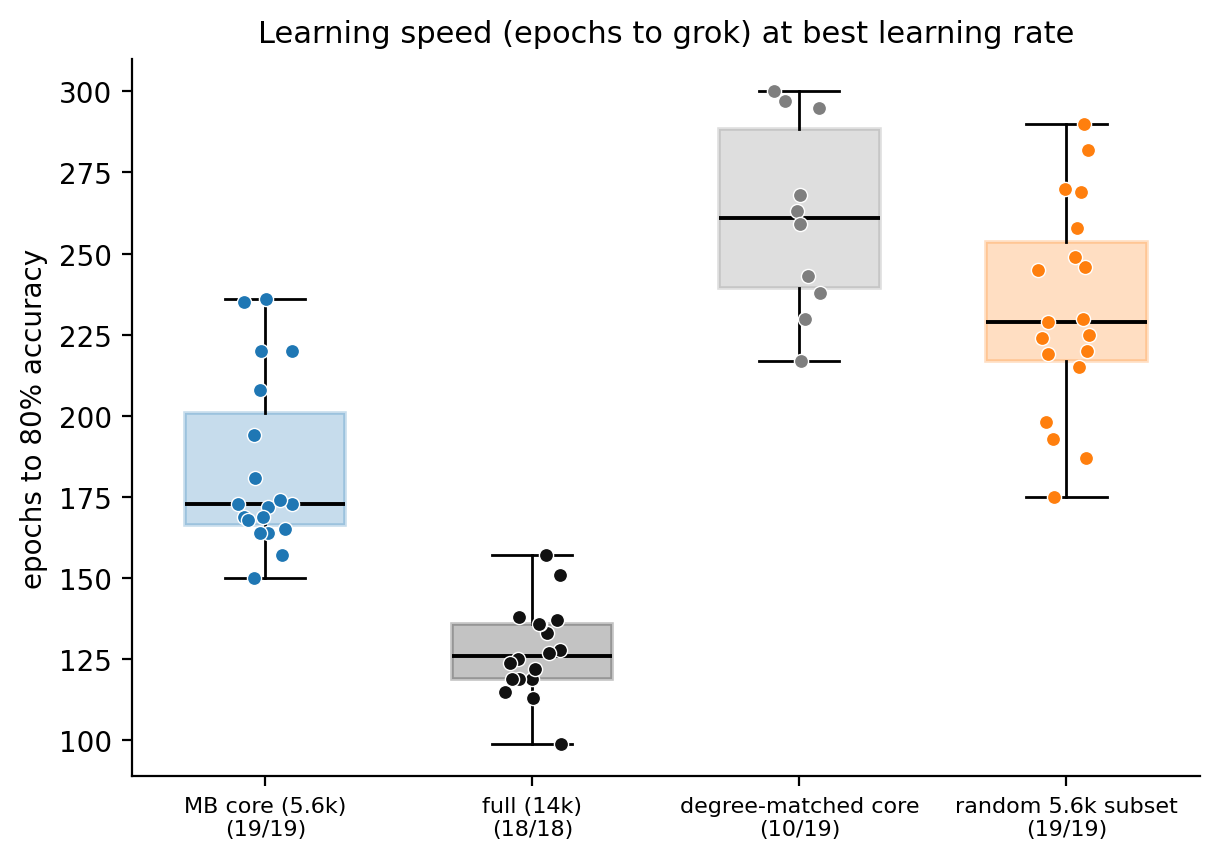
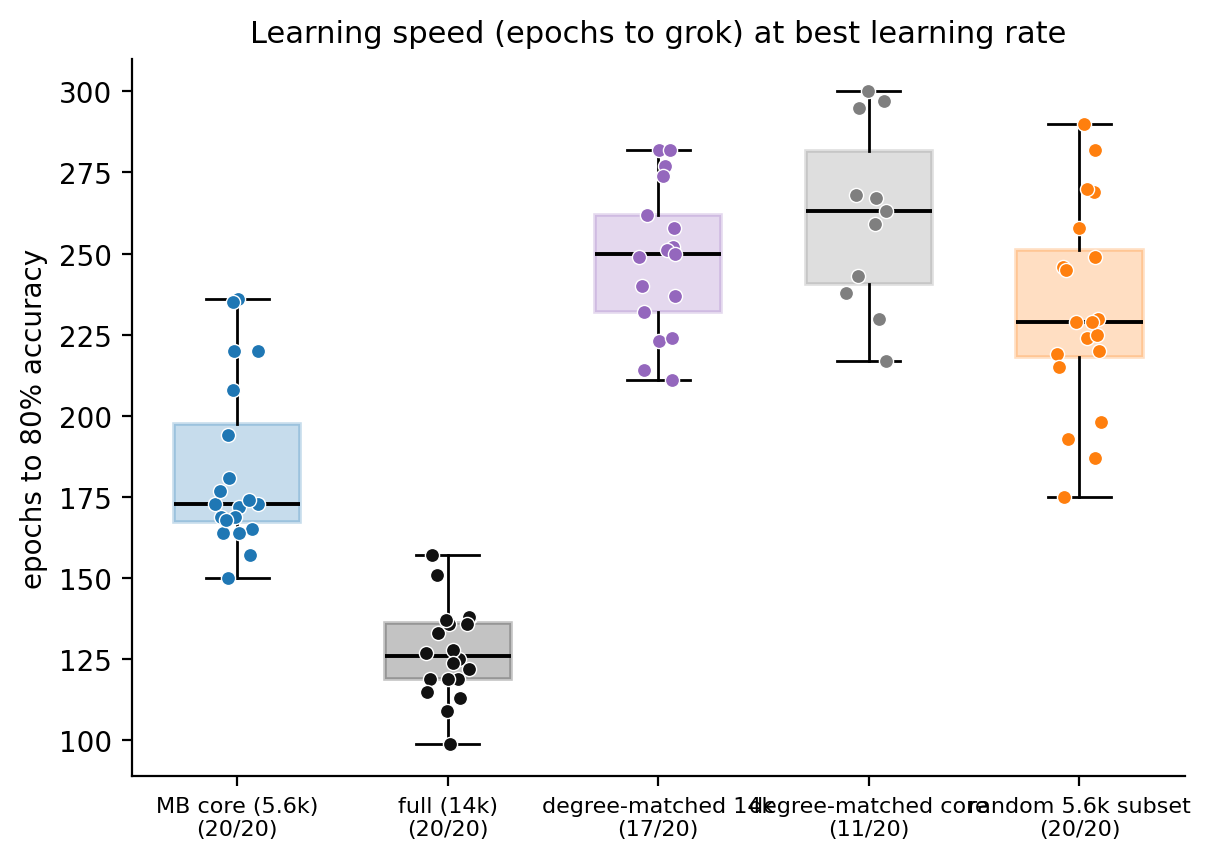
exp02 complete
pruned MB outperforms full control - slightly worse than complete 14.6k mushroom body

diff --git a/scott/experiment_02_mb_core_pruning/port_14k_controls.py b/scott/experiment_02_mb_core_pruning/port_14k_controls.py
@@ -1,0 +1,74 @@
+#!/usr/bin/env python3
+"""Port Experiment 1's 14k degree-matched controls into Experiment 2 as the `full_degree` condition.
+
+Experiment 2 trains core / full / core_degree / random_subset, but NOT a 14k degree-matched
+control -- that arm already exists from Experiment 1 subrun 03 (`control_g*`), trained with the
+identical task, training loop, lr grid, and spectral-radius target (rho=0.95). Rather than re-run
+it, this copies those finished runs into Exp 2's outputs as a `full_degree` condition so the Exp 2
+analysis can ask: is the 5.6k pruned MB core (`core`) better than the 14k degree-matched null?
+
+It copies only result.json (all the analysis + figures need), renaming
+  <E1>/runs/control_gNN_lr<L>/result.json  ->  <E2>/runs/full_degree_gNN_lr<L>/result.json
+and patching condition/arm -> "full_degree" and run_id accordingly. Idempotent (overwrites).
+
+The ported files live only in Exp 2's (git-ignored) outputs/; this script is the tracked,
+reproducible record of how they got there. `aws s3 sync` during --collect does not delete them
+(no --delete), so they persist across collects.
+
+Comparability note: same MQAR task, same train_one_run, same lr grid {1e-4..1e-2}, same rho=0.95.
+Accuracy and epochs/steps-to-grok are hardware-independent and fully comparable. Wall-clock is
+comparable in kind (Exp 1 subrun 03 ran on the same g6.xlarge/L4 fleet, one run per GPU) but came
+from a separate fleet run -- treat the core-vs-full_degree wall-clock delta as indicative.
+"""
+from __future__ import annotations
+
+import argparse
+import json
+import re
+from pathlib import Path
+
+HERE = Path(__file__).resolve().parent
+REPO_ROOT = HERE.parents[1]
+E1_DEFAULT = REPO_ROOT / "scott/experiment_01_mb_mqar_degree_matched/subruns/03_full_fleet/outputs"
+
+
+def main(argv=None) -> int:
+    ap = argparse.ArgumentParser(description=__doc__, formatter_class=argparse.RawDescriptionHelpFormatter)
+    ap.add_argument("--exp1-outputs", type=Path, default=E1_DEFAULT,
+                    help="Exp 1 subrun 03 outputs dir (source of control_g* runs).")
+    ap.add_argument("--exp2-outputs", type=Path, default=HERE / "outputs",
+                    help="Exp 2 outputs dir (destination; full_degree_g* runs are written here).")
+    args = ap.parse_args(argv)
+
+    src_runs = args.exp1_outputs / "runs"
+    dst_runs = args.exp2_outputs / "runs"
+    srcs = sorted(src_runs.glob("control_g*/result.json"))
+    if not srcs:
+        raise SystemExit(f"no control_g*/result.json under {src_runs} (build Exp 1 subrun 03 first)")
+
+    n = 0
+    for sp in srcs:
+        r = json.loads(sp.read_text())
+        old_id = r["run_id"]                       # e.g. control_g05_lr1.0e-03
+        new_id = re.sub(r"^control_g", "full_degree_g", old_id)
+        if new_id == old_id:
+            raise SystemExit(f"unexpected run_id (not control_g*): {old_id}")
+        r["run_id"] = new_id
+        r["arm"] = "full_degree"
+        r["condition"] = "full_degree"             # Exp 2 groups by `condition`; Exp 1 lacked it
+        dst = dst_runs / new_id
+        dst.mkdir(parents=True, exist_ok=True)
+        (dst / "result.json").write_text(json.dumps(r, indent=2))
+        n += 1
+
+    graphs = len({re.sub(r"_lr.*", "", p.name) for p in dst_runs.glob("full_degree_g*")})
+    print(f"ported {n} runs from {src_runs}\n"
+          f"  -> {dst_runs}/full_degree_g*  ({graphs} graphs x lr grid)")
+    print("  next: re-run analysis to include the new comparison, e.g.\n"
+          f"    uv run python {Path(__file__).with_name('run_experiment.py').relative_to(REPO_ROOT)} "
+          f"--analyze-only --output-dir {args.exp2_outputs.relative_to(REPO_ROOT)}")
+    return 0
+
+
+if __name__ == "__main__":
+    raise SystemExit(main())

diff --git a/scott/experiment_02_mb_core_pruning/run_experiment.py b/scott/experiment_02_mb_core_pruning/run_experiment.py
@@ -66,9 +66,13 @@ synthetic_matrix = exp1.synthetic_matrix
 GROK_THRESHOLDS = exp1.GROK_THRESHOLDS
 _empirical_null = exp1._empirical_null
 
-CONDITIONS = ("core", "full", "core_degree", "random_subset")
+# core/full/core_degree/random_subset are TRAINED by this engine. full_degree is an
+# ANALYSIS-ONLY condition: the 14k degree-matched control, ported from Experiment 1 subrun 03
+# (identical task/loop/rho-target=0.95), brought in by port_14k_controls.py. It is never in the
+# training plan; it only appears in the analysis when its result.json files are present.
+CONDITIONS = ("core", "full", "core_degree", "random_subset", "full_degree")
 CONNECTOME_LIKE = ("core", "full")        # one real graph, many training seeds
-CONTROL_LIKE = ("core_degree", "random_subset")  # independent graphs forming a null
+CONTROL_LIKE = ("core_degree", "random_subset", "full_degree")  # independent graphs forming a null
 RANDOM_SUBSET_SEED_BASE = 100_000         # keep random-subset node draws disjoint from other rngs
 
 
@@ -218,6 +222,12 @@ def write_outputs(out_dir: Path, results: list[dict], target_rho: float):
         # (3) pruning: accuracy + learning speed + wall-clock vs the full substrate -> descriptive
         "core_vs_full": _describe_pair(by_cond["core"], by_cond["full"], "core", "full"),
     }
+    # ported 14k degree-matched control (Exp 1 subrun 03), only if present:
+    #  - core_vs_full_degree: is the 5.6k pruned MB better than the 14k degree-matched null?
+    #  - full_vs_full_degree: reproduces Exp 1's headline inside Exp 2 (sanity check)
+    if by_cond["full_degree"]:
+        analysis["core_vs_full_degree"] = _null_compare(by_cond["core"], by_cond["full_degree"])
+        analysis["full_vs_full_degree"] = _null_compare(by_cond["full"], by_cond["full_degree"])
     if multi_lr:
         def lrdist(rs):
             return dict(Counter(f"{r['lr']:.1e}" for r in rs if r.get("lr") is not None))
@@ -232,10 +242,14 @@ def write_outputs(out_dir: Path, results: list[dict], target_rho: float):
         if ta.size:
             print(f"  {c:14s} n={ta.size:2d}  test_acc={ta.mean():.3f}±{ta.std():.3f}  "
                   f"wall_s={np.nanmean(wl):7.0f}", flush=True)
-    for cmp in ("core_vs_core_degree", "core_vs_random_subset"):
+    null_cmps = ["core_vs_core_degree", "core_vs_random_subset"]
+    if "core_vs_full_degree" in analysis:
+        null_cmps += ["core_vs_full_degree", "full_vs_full_degree"]
+    for cmp in null_cmps:
         a = analysis[cmp]["test_acc"]
         if a:
-            print(f"  [{cmp}] test_acc core={a['connectome_mean']}±{a['connectome_std']} "
+            test = cmp.split("_vs_")[0]  # "connectome_mean" position = core, or full for full_vs_*
+            print(f"  [{cmp}] test_acc {test}={a['connectome_mean']}±{a['connectome_std']} "
                   f"ctrl={a['control_mean']}±{a['control_std']} perm_p={a['permutation_p_one_sided']} "
                   f"ranksum_p={a.get('ranksum_p','na')}", flush=True)
     cf = analysis["core_vs_full"].get("test_acc")

diff --git a/scott/experiment_02_mb_core_pruning/make_figures.py b/scott/experiment_02_mb_core_pruning/make_figures.py
@@ -38,10 +38,12 @@ plt.rcParams.update({
     "legend.frameon": False, "legend.fontsize": 8.5,
 })
 
-CONDS = ["core", "full", "core_degree", "random_subset"]
-COLOR = {"core": "#1f77b4", "full": "#111111", "core_degree": "#7f7f7f", "random_subset": "#ff7f0e"}
+CONDS = ["core", "full", "full_degree", "core_degree", "random_subset"]
+COLOR = {"core": "#1f77b4", "full": "#111111", "full_degree": "#9467bd",
+         "core_degree": "#7f7f7f", "random_subset": "#ff7f0e"}
 LABEL = {"core": "MB core (5.6k)", "full": "full (14k)",
-         "core_degree": "degree-matched core", "random_subset": "random 5.6k subset"}
+         "full_degree": "degree-matched 14k", "core_degree": "degree-matched core",
+         "random_subset": "random 5.6k subset"}
 CHANCE = 1 / 32
 
 HERE = Path(__file__).resolve().parent
@@ -159,7 +161,9 @@ def fig2_final_acc(rows, lrs, figdir):
     # permutation p annotations: core vs each control
     core = cell(rows, "core", best_lr(rows, "core", lrs))
     notes = []
-    for ctrl in ("core_degree", "random_subset"):
+    for ctrl in ("core_degree", "random_subset", "full_degree"):
+        if ctrl not in CONDS:
+            continue
         p = perm_p(core, cell(rows, ctrl, best_lr(rows, ctrl, lrs)))
         notes.append(f"core vs {ctrl.replace('_',' ')}: perm p={p:.3f} ({stars(p)})")
     ax.set_title("Final accuracy by condition\n" + "   |   ".join(notes), fontsize=9)
@@ -218,8 +222,11 @@ def fig4_wallclock(rows, lrs, figdir):
 
 
 def fig5_acc_by_lr(rows, lrs, figdir):
-    # core vs core_degree (Exp 1 replication) and core vs full, grouped bars per lr
+    # core vs core_degree (Exp 1 replication at core scale), core vs full, and (if ported)
+    # core vs the 14k degree-matched control, grouped bars per lr
     pairs = [("core", "core_degree"), ("core", "full")]
+    if "full_degree" in CONDS:
+        pairs.append(("core", "full_degree"))
     fig, axes = plt.subplots(1, 2, figsize=(2.0 * len(lrs) + 4.0, 4.2), sharey=True)
     x = np.arange(len(lrs))
     w = 0.38
@@ -252,6 +259,9 @@ def main():
     figdir = outdir.parent / "figures"
     rows = load(outdir)
     lrs = sorted(set(r["lr"] for r in rows))
+    # only plot conditions that actually have runs (e.g. full_degree only after porting)
+    global CONDS
+    CONDS = [c for c in CONDS if any(r["condition"] == c for r in rows)]
     print(f"figures for {outdir.relative_to(REPO_ROOT)}  (lrs={[fmt_lr(l) for l in lrs]}, "
           f"{len(rows)} runs)")
     fig1_curves(rows, lrs, figdir)

diff --git a/scott/labnotebook/experiment_02_mb_core_pruning.md b/scott/labnotebook/experiment_02_mb_core_pruning.md
@@ -48,9 +48,10 @@ fully connected (largest weakly-connected component 5,606/5,608). The core-node 
 adjacency are precomputed once by `build_mb_core.py` → `substrate/core_indices.npy` (staged with
 the code so the fleet never needs the 32 MB annotation table).
 
-**Conditions (4), all ρ-rescaled to the full substrate's measured ρ = 0.95.** Spectral radius is
+**Conditions, all ρ-rescaled to the full substrate's measured ρ = 0.95.** Spectral radius is
 matched across every condition exactly as in Exp 1, so recurrent gain is held fixed and is not a
-confound for any of the three comparisons.
+confound for any comparison. Four conditions are trained here; a fifth (`full_degree`) is **ported
+from Exp 1 subrun 03** rather than re-trained (see below).
 
 | condition | construction | replication | raw ρ before rescale |
 |---|---|---|---|
@@ -58,6 +59,18 @@ confound for any of the three comparisons.
 | `full` | full 14,025-node substrate | 1 graph × 20 training seeds | 0.950 |
 | `core_degree` | degree-preserving rewiring of the core (`degree_preserving_random_like`) | 20 graphs | ~0.18 |
 | `random_subset` | random 5,608-node induced subgraph of the 14k | 20 graphs | ~0.44 |
+| `full_degree` | degree-matched rewiring of the **full 14k** — Exp 1 subrun 03's `control` arm, **ported** | 20 graphs | ~0.20 |
+
+**Ported 14k degree-matched control (`full_degree`).** Exp 1 subrun 03 already trained 20
+degree-matched controls of the *full* 14k substrate (300 ep, 5 lr, ρ=0.95) — the same arm that gave
+Exp 1's headline. Rather than re-run it, `port_14k_controls.py` copies those finished `control_g*`
+runs into Exp 2's outputs as `full_degree_g*` (patching `condition`/`run_id`). Because Exp 2 reuses
+Exp 1's exact `train_one_run`, task, lr grid, and ρ-target, the ported runs are equivalent to
+re-generating them. Accuracy and epochs/steps-to-grok are hardware-independent and fully comparable;
+wall-clock is comparable in kind (same g6.xlarge/L4 fleet, one run per GPU) but from a separate run,
+so treat the core-vs-`full_degree` wall-clock delta as indicative. This adds two analyses: **(4)
+`core` vs `full_degree`** — is the 5.6k pruned MB better than the 14k degree-matched control? — and
+`full` vs `full_degree`, which reproduces Exp 1's headline inside Exp 2 as a consistency check.
 
 `core`/`full` are connectome-like (one real graph; the 20 seeds vary training noise, not the graph
 — pseudo-replication, so the permutation test against a graph-null is primary). `core_degree`/
@@ -99,31 +112,85 @@ total cost is ~1.2–1.6× Exp 1.
 training-seed replicates of one graph — pseudo-replication); rank-sum secondary with that caveat;
 ρ matched everywhere; per-graph lr tuned so a single shared lr cannot handicap an arm.
 
-## Status — launched on the AWS fleet 2026-06-20; running
+## Run log
 
-Built and validated locally (2026-06-19): all 4 conditions build and ρ-match to 0.95 (`core` ×1.03,
-`full` ×1.00, `core_degree` ×5.23, `random_subset` ×2.18); idempotent skip, resume, sharding (400
-runs → 134/133/133 over 3 shards), `--analyze-only`, and figures all confirmed.
+Built and validated locally 2026-06-19; launched on the AWS spot-GPU fleet 2026-06-20 (`run.py`; 400
+runs = 80 units × 5 lr, 300-epoch cap; isolated S3 area `s3://…/pathint-exp02-core/`). 4 of the 64
+spot instances were preempted mid-shard, leaving 26 runs incomplete (374/400); the logs showed no
+errors (only the benign sparse-invariant warning), and the gap was the expected preemption pattern
+(4 resumable partials with checkpoints + 22 never-started shard tails). A top-up re-run resumed the 4
+partials from their S3 checkpoints and ran the 22 remaining to reach 400/400. The 14k degree-matched
+control (`full_degree`, 100 runs) was then ported in from Exp 1 subrun 03 (`port_14k_controls.py`)
+and the full set re-analyzed (`run.py --collect`) — 500 runs aggregated.
 
-**Launched on the AWS spot-GPU fleet 2026-06-20** via `run.py` (400 runs = 80 units × 5 lr, 300-epoch
-cap; 64-GPU fleet, spot + on-demand spill; isolated S3 area `s3://…/pathint-exp02-core/`). Each
-worker runs `run_experiment.py --shard k --num-shards 64`, idempotent and per-epoch checkpointed to
-S3, then self-terminates — so spot preemptions only cost a resume. Monitor with `run.py --status`
-(progress vs the 400-run plan, per condition) and `run.py --log`; collect with `run.py --collect`
-(pulls results, runs `--analyze-only`, regenerates figures). Results below are pending run completion.
+## Results (concluded 2026-06-21; 400 trained + 100 ported = 500 runs)
 
-## Results
+**Pruning the 14,025-neuron FlyWire "mushroom body" substrate to the ~5.6k canonical MB core keeps
+essentially all of the connectome's MQAR advantage. The MB core beats every control — a
+degree-matched core, a random same-size subgraph, and the full 14k's degree-matched control — and
+trains ~2.5× faster in wall-clock than the full substrate, for ~0.04 less final accuracy.**
 
-_Pending — run launched 2026-06-20; fill in from `run.py --collect` when the fleet finishes._
+All five conditions ρ-matched to 0.95; best lr chosen per unit on validation (every condition's
+optimum is 1e-3 — shared across arms, as in Exp 1). 20 units per condition.
 
-Expected outputs: `outputs/{analysis.json, metrics_by_run.csv, lr_selection.csv}`, per-run curves
-under `outputs/runs/*/`, and figures `fig1_curves_best_lr` (headline), `fig2_final_acc` (+ the two
-permutation p's), `fig3_grok_epochs`, `fig4_wallclock`, `fig5_acc_by_lr`. To be reported per
-question: (1) `core` vs `core_degree` permutation p — does Exp 1 hold at core scale; (2) `core` vs
-`random_subset` permutation p — right subset vs just smaller; (3) `core` vs `full` — final test
-accuracy, epochs/steps/wall-clock to grok, and total wall-clock.
+| condition | final test acc | total wall-clock |
+|---|---|---|
+| `full` (14k) | 0.919 ± 0.010 | 10,238 s |
+| **`core` (5.6k MB)** | **0.881 ± 0.012** | 4,128 s |
+| `random_subset` (random 5.6k) | 0.838 ± 0.020 | 2,704 s |
+| `full_degree` (14k degree-matched, ported) | 0.769 ± 0.140 | 10,042 s |
+| `core_degree` (5.6k degree-matched) | 0.701 ± 0.171 | 4,113 s |
+
+Permutation tests (one-sided, the real graph as the test arm against each 20-graph control null;
+all land at the 1/(20+1) ≈ 0.048 floor — complete separation, 0/20 controls reach the test mean;
+rank-sum p ≈ 0, secondary, with the pseudo-replication caveat):
+
+- **Q1 — Exp 1 holds at core scale.** `core` 0.881 vs `core_degree` 0.701, p = 0.048. The wiring
+  advantage over degree-matched random survives pruning, so it is intrinsic to the ~5.6k MB core,
+  not carried by the ~8.4k weakly-attached halo (the central-complex + unlabeled neurons the build
+  rule swept in). This is the clean same-size / same-degree test.
+- **Q2 — the right subset, not just smaller.** `core` 0.881 vs `random_subset` 0.838, p = 0.048. A
+  random same-size chunk of the 14k is a surprisingly strong substrate (0.838, despite being far
+  sparser — ~94k vs ~440k edges), but the MB core still beats it.
+- **Q4 — the pruned core beats the 14k degree-matched control.** `core` 0.881 vs `full_degree`
+  0.769, p = 0.048. The 5.6k biological core outperforms a degree-matched random network with 2.5×
+  the neurons.
+- **Reproduction check.** `full` 0.919 vs `full_degree` 0.769, p = 0.048 — matches Exp 1's headline
+  (0.918 vs 0.769) almost exactly, confirming the ported control is apples-to-apples.
+
+**Q3 — what pruning buys (`core` vs `full`; descriptive, both one graph × 20 seeds).** The speed
+story depends on the metric:
+- Final accuracy: 0.881 vs 0.919 — pruning costs ~0.04.
+- Learning speed in *epochs*: core is **slower** — ~183 vs ~127 epochs to 80% (the smaller network
+  needs more passes to grok).
+- Learning speed in *wall-clock*: core is **~2.5× faster** — 4,128 vs 10,238 s — because each epoch
+  on 5.6k neurons / 440k edges is far cheaper than on 14k / 575k, more than offsetting the extra
+  epochs. So pruning is a clear practical win on wall-clock and a near-wash on accuracy.
+
+**Secondary observation.** The two degree-matched controls invert relative to their parent graphs:
+`core_degree` (0.701) is the *worst* condition — below the 14k `full_degree` (0.769) and even the
+random brain chunk `random_subset` (0.838). Degree-preserving rewiring of the compact MB core is
+more destructive than rewiring the full 14k, consistent with the core's structure being more
+load-bearing, though we have not isolated the mechanism.
+
+**Honest limits.**
+- *Cross-size comparisons.* `core` vs `full` and `core` vs `full_degree` change N (5.6k vs 14k)
+  alongside topology, so they answer "is the pruned biological core better than a larger net"
+  rather than isolating one variable. Q1 is the clean same-size/same-degree test, and it is positive.
+- *Pseudo-replication.* `core`/`full` are 20 training-seed replicates of one graph each; the
+  permutation test against the 20-graph null is the valid statistic, sitting at the 0.048 floor —
+  growing the control nulls would tighten it.
+- *Generic all-neuron I/O.* Input/readout still touch all neurons, so a trainable readout can route
+  around the wiring (as in Exp 1). Biological PN/KC→MBON I/O is Experiment 3.
+- *Ported wall-clock.* `full_degree` came from a separate (same-hardware, one-run-per-GPU) fleet run,
+  so its wall-clock is indicative, not measured in this run.
+
+Figures (`figures/`): `fig1_curves_best_lr` (headline curves, all 5 conditions), `fig2_final_acc`
+(box + the three core-vs-control permutation p's), `fig3_grok_epochs`, `fig4_wallclock`,
+`fig5_acc_by_lr`. Data: `outputs/{analysis.json, metrics_by_run.csv, lr_selection.csv}`, per-run
+curves under `outputs/runs/*/`.
 
 ### Next steps
-1. Launch on the fleet; collect; fill in results above.
-2. **Experiment 3:** biologically-correct I/O (PN/KC input → MBON output) on the MB core, using the
-   cell-type labels from the annotation join built here.
+**Experiment 3:** biologically-correct I/O (PN/KC input → MBON output) on the MB core, using the
+cell-type labels from the annotation join built here — the last Exp-1 confound (generic all-neuron
+I/O lets a trainable readout bypass the wiring).

diff --git a/scott/labnotebook/README.md b/scott/labnotebook/README.md
@@ -12,7 +12,7 @@ Purpose / Methods / Results. Add results at the end of a run; don't pre-fill num
 | # | Date started | Title | Status | Entry |
 |---|---|---|---|---|
 | 1 | 2026-06-16 | FlyWire mushroom-body connectome vs degree-matched controls on MQAR, with spectral radius controlled | **Concluded 2026-06-19.** At matched spectral radius and per-graph lr tuning, the MB connectome cleanly beats degree-matched random wiring: connectome **0.918 ± 0.007** vs null **0.769 ± 0.140** (full AWS run, 300 ep / 5 lr / 20+20), permutation p = 0.048, connectome groks ~2× faster. The advantage is **learning-rate independent** (connectome wins at every lr; both arms also best at 1e-3) — real wiring, not a spectral, lr, or under-training artifact. Three sub-runs of increasing rigor (01 first pass 0.711 vs 0.358 → 02 lr-sweep pilot → 03 full fleet) all agree. Open limit → Exp 2: generic all-neuron I/O. | [experiment_01_mb_mqar_degree_matched.md](experiment_01_mb_mqar_degree_matched.md) |
-| 2 | 2026-06-19 | MB-core pruning vs the full 14k FlyWire substrate on MQAR | **Running (launched 2026-06-20 on the AWS fleet).** A cell-type join (Schlegel 2024, FlyWire 783) shows the Exp-1 "mushroom_body" substrate (14,025 neurons) is an MB-neuropil-anchored subgraph: a ~5.6k MB core (KC/MBON/DAN/MBIN) plus an ~8.4k weakly-attached halo (639 central-complex neurons + ~7.1k unlabeled). Prunes to the MB core and asks, at matched ρ=0.95: (1) does Exp 1 hold? core vs degree-matched cores; (2) right subset, not just smaller? core vs random 5.6k subsets; (3) what does pruning buy? core vs full — accuracy + grok + wall-clock. 400 runs (20 core + 20 full + 20×2 controls × 5 lr) on the AWS fleet. Engine/launcher validated locally; not yet launched. Generic all-neuron I/O (bio I/O → Exp 3). | [experiment_02_mb_core_pruning.md](experiment_02_mb_core_pruning.md) |
+| 2 | 2026-06-19 | MB-core pruning vs the full 14k FlyWire substrate on MQAR | **Concluded 2026-06-21.** Pruning the 14k substrate to the ~5.6k canonical MB core keeps the advantage: core **0.881 ± 0.012** beats every control — degree-matched core 0.701, random 5.6k subset 0.838, and the **14k degree-matched control 0.769** (each permutation p = 0.048) — and trains **~2.5× faster in wall-clock** than the full 14k (0.919) for ~0.04 less accuracy. Exp 1's finding holds at core scale (the wiring effect is intrinsic to the core, not the halo); `full` vs `full_degree` reproduces Exp 1. Next → Exp 3: biological PN/KC→MBON I/O. A cell-type join (Schlegel 2024, FlyWire 783) shows the Exp-1 "mushroom_body" substrate (14,025 neurons) is an MB-neuropil-anchored subgraph: a ~5.6k MB core (KC/MBON/DAN/MBIN) plus an ~8.4k weakly-attached halo (639 central-complex neurons + ~7.1k unlabeled). Prunes to the MB core and asks, at matched ρ=0.95: (1) does Exp 1 hold? core vs degree-matched cores; (2) right subset, not just smaller? core vs random 5.6k subsets; (3) what does pruning buy? core vs full — accuracy + grok + wall-clock. 400 runs (20 core + 20 full + 20×2 controls × 5 lr) on the AWS fleet. Engine/launcher validated locally; not yet launched. Generic all-neuron I/O (bio I/O → Exp 3). | [experiment_02_mb_core_pruning.md](experiment_02_mb_core_pruning.md) |
 
 ### Experiment 1 — one-line description
 Does the FlyWire mushroom-body connectome's *specific wiring* beat degree-matched random wiring

diff --git a/scott/experiment_02_mb_core_pruning/README.md b/scott/experiment_02_mb_core_pruning/README.md
@@ -16,6 +16,10 @@ This experiment prunes to the canonical MB core and asks three questions on MQAR
    14k (`random_subset`).
 3. **What does pruning buy?** — `core` vs `full` 14k: final test accuracy **and** learning speed
    (epochs / gradient-steps / wall-clock to grok, plus total wall-clock).
+4. **Is the pruned core better than the 14k degree-matched control?** — `core` vs `full_degree`,
+   the 14k degree-matched arm **ported from Experiment 1 subrun 03** (not re-trained — same task,
+   training loop, lr grid, and ρ-target). `full` vs `full_degree` also reproduces Exp 1's headline
+   as an internal consistency check. Brought in by `port_14k_controls.py`.
 
 Full rationale, methods, and results live in the lab notebook:
 [`../labnotebook/experiment_02_mb_core_pruning.md`](../labnotebook/experiment_02_mb_core_pruning.md).
@@ -28,6 +32,7 @@ Full rationale, methods, and results live in the lab notebook:
 | `full` | full 14,025-node substrate | 1 graph × `FULL_SEEDS` training seeds | the pruning reference (Exp 1's substrate) |
 | `core_degree` | degree-preserving random rewirings of the core | `CONTROL_GRAPHS` graphs | null for Q1 (Exp 1's control, at core scale) |
 | `random_subset` | random `\|core\|`-node induced subgraphs of the 14k | `CONTROL_GRAPHS` graphs | null for Q2 (same size, arbitrary cells) |
+| `full_degree` | degree-matched random rewirings of the full 14k — **ported from Exp 1 subrun 03, not trained here** | 20 graphs | null for Q4 (does the pruned core beat the 14k degree-matched control?) |
 
 `core`/`full` are *connectome-like* (one real graph, many training seeds → pseudo-replication;
 the permutation test against a graph-null is primary). `core_degree`/`random_subset` are
@@ -42,6 +47,7 @@ question is deferred to Experiment 3).
 experiment_02_mb_core_pruning/
 ├── README.md            ← this index
 ├── build_mb_core.py     ← one-time prep: joins FlyWire annotations → substrate/core_indices.npy
+├── port_14k_controls.py ← copies Exp 1's 14k degree-matched controls in as the `full_degree` condition
 ├── run_experiment.py    ← engine: builds the 4 conditions (ρ-matched), trains, analyzes
 │                          (reuses Exp 1's training loop + analysis primitives verbatim)
 ├── run.py               ← AWS-fleet launcher; all run parameters pinned as constants
